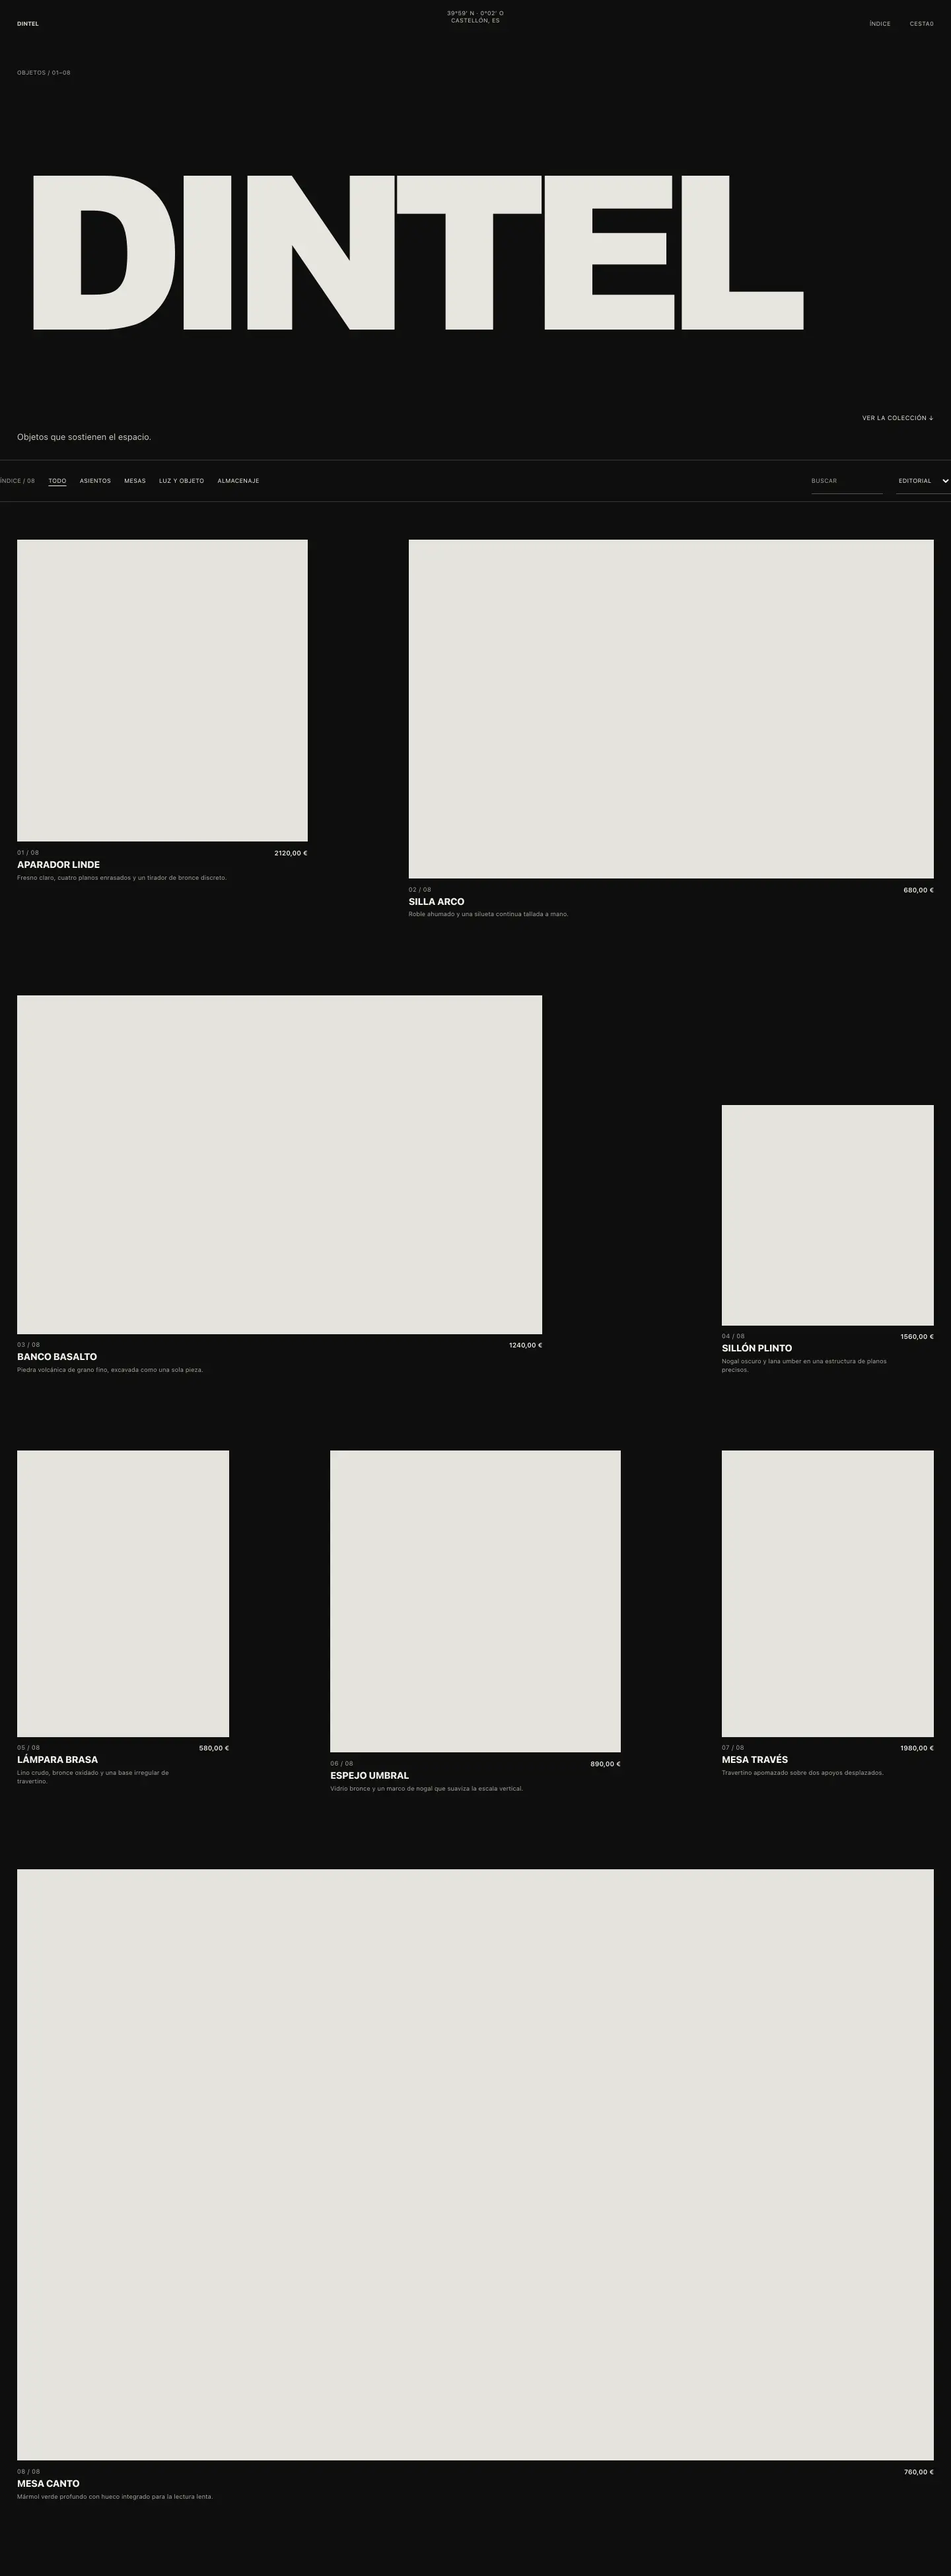
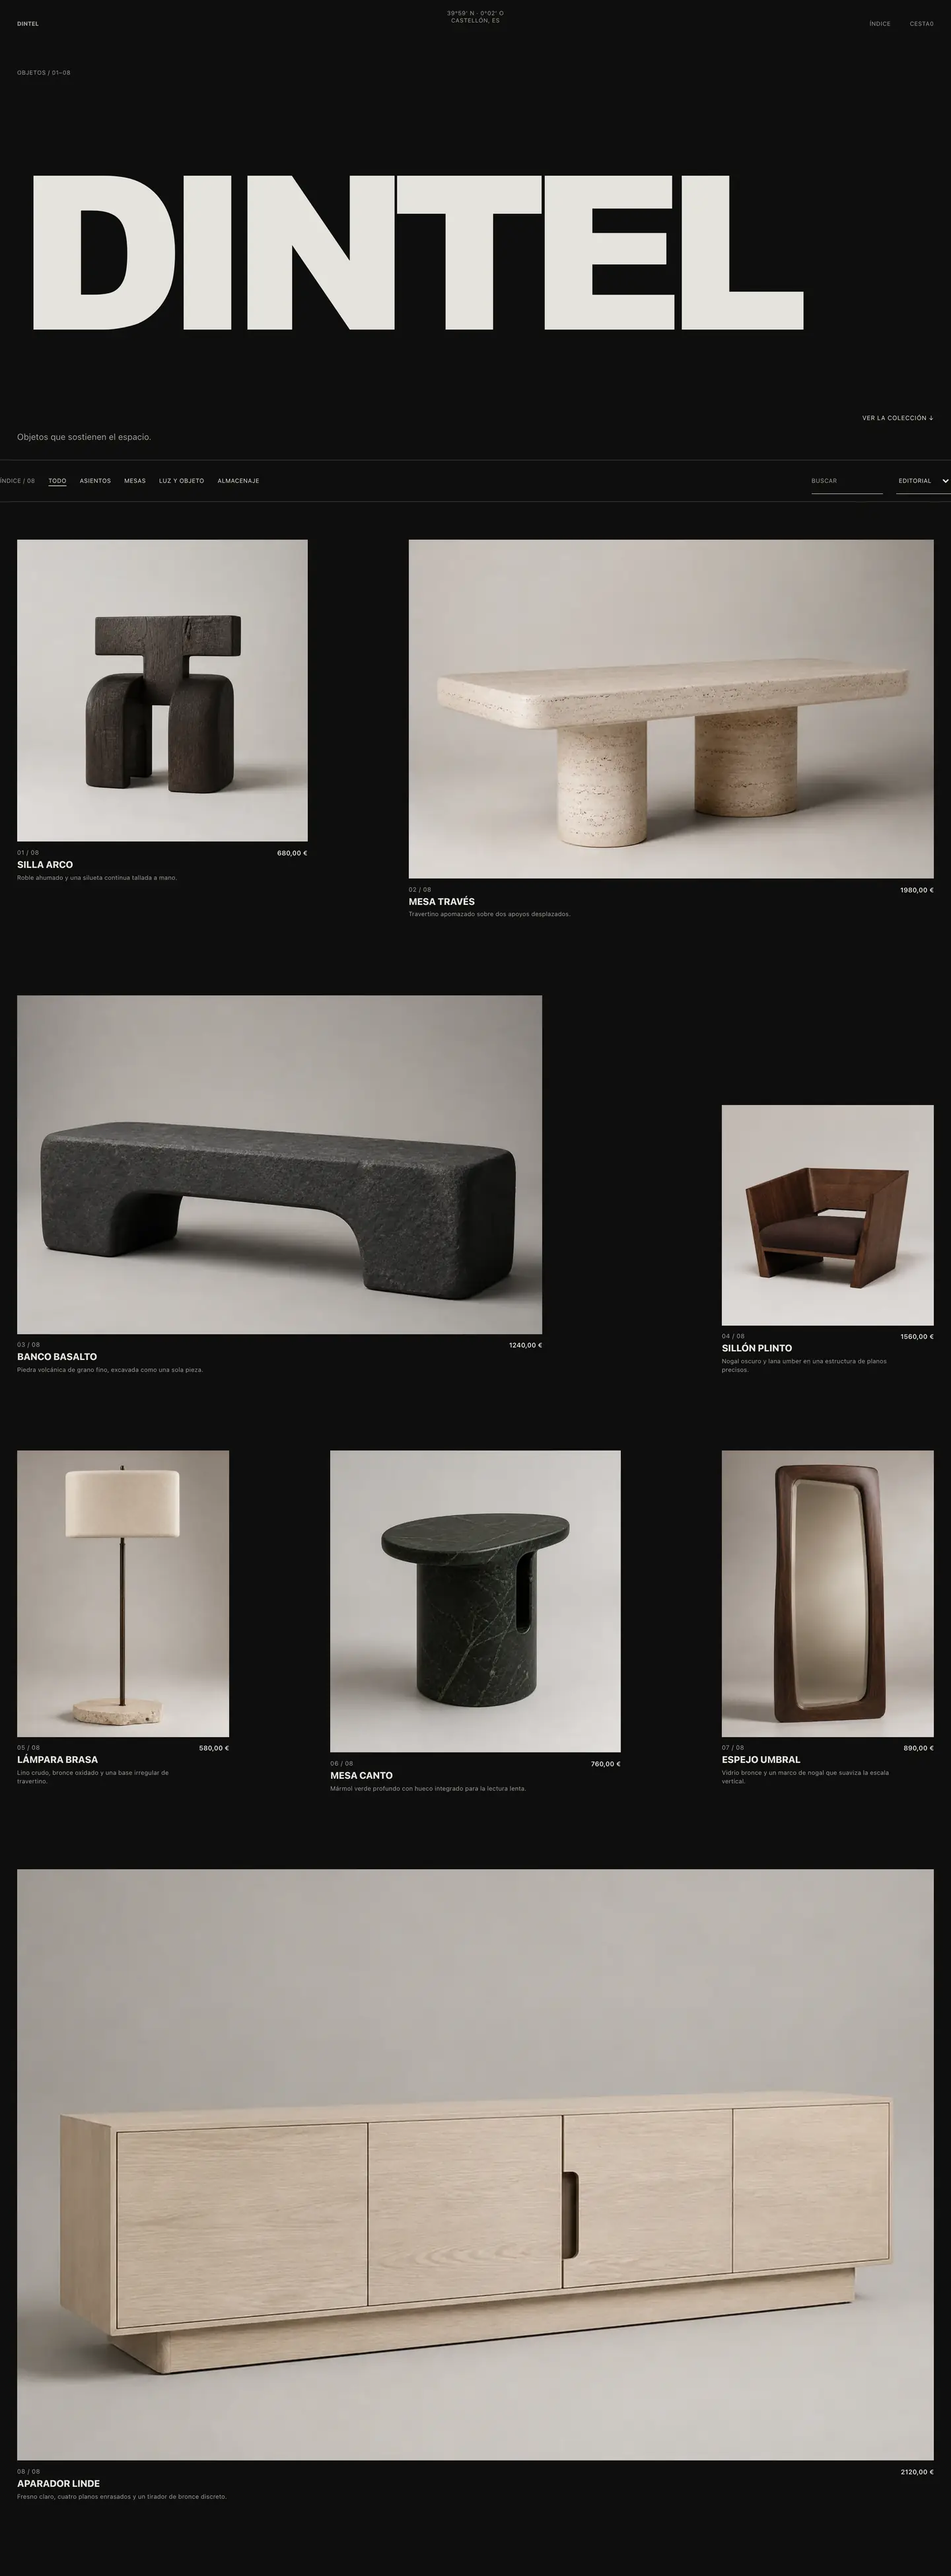
Finish DINTEL furniture theme

diff --git a/src/lib/demo-themes.ts b/src/lib/demo-themes.ts
@@ -985,9 +985,9 @@ export const demoThemes: DemoTheme[] = [
     bestFor: ['Interiorismo', 'Mobiliario de autor', 'Objeto escultórico'],
     status: 'ready',
     vars: {
-      '--color-brand': '#e8e6df',
-      '--color-brand-dark': '#c9c7bf',
-      '--color-brand-fg': '#ffffff',
+      '--color-brand': '#171715',
+      '--color-brand-dark': '#0e0e0d',
+      '--color-brand-fg': '#f2f1ea',
       '--font-display': "Arial Black, Impact, Haettenschweiler, 'Arial Narrow Bold', sans-serif",
       '--font-accent': SYSTEM_SANS,
       '--tracking-display': '-0.085em',
@@ -996,7 +996,7 @@ export const demoThemes: DemoTheme[] = [
       '--radius-card': '0',
       '--border-width': '1px',
       '--surface-product': '#e5e3dd',
-      '--surface-sunken': '#171715',
+      '--surface-sunken': '#0e0e0d',
       '--space-density': '0.85',
       '--grid-gap': 'clamp(1rem, 2.4vw, 2.5rem)',
     },

diff --git a/docs/ROADMAP.md b/docs/ROADMAP.md
@@ -896,6 +896,30 @@ posición 12
 (`4b7efb74f44f8df500b21c605b7ceff9.jpg`). El carril principal conserva R2.11
 como cabeza y requiere permiso explícito por su migración D1.
 
+### Línea paralela · tema DINTEL (2026-08-12, sesión local)
+
+Duodécimo elemento de `nuevos-temas/cola.json`. DINTEL replica una referencia
+de mobiliario monolítico con fondo negro, wordmark monumental, microtipografía
+y retícula asimétrica de doce columnas. Ocho objetos `din-*` de madera,
+piedra, bronce y luz usan assets WebP propios generados con `imagegen`
+integrado, una llamada por objeto.
+
+El WIP previo estaba completo visualmente pero no cerraba: el acento claro
+fallaba el test de contraste (1,25:1) y hacía casi invisibles la categoría y la
+CTA de la ficha compartida; además, las capturas de escritorio se tomaron antes
+de que los WebP lazy quedaran pintados. El acento operativo pasa a tinta oscura,
+el catálogo deriva sus tintas claras de los 14 tokens, el orden destacado se
+alinea con la referencia y el script espera carga y `decode()` antes de cada
+captura.
+
+El bloque no cambia pricing, envíos, checkout, pedidos, D1 ni APIs, y no añade
+dependencias. Auditoría a11y: 8 superficies, 0 errores y 0 avisos. Cinco
+capturas dentro de presupuesto y `pnpm check` en verde (62 suites/394 tests,
+tipos y build). La posición 12 queda completada y la siguiente referencia
+visual ejecutable es la posición 13
+(`5675ae523a7da5dc339cbf50c05e49f1.jpg`). El carril principal conserva R2.13
+como cabeza.
+
 ### Pendiente en la Fase 9B
 
 - **Pasada de fidelidad fina** de los 4 temas contra su captura (se re-hospedaron

diff --git a/docs/temas/dintel.md b/docs/temas/dintel.md
@@ -43,5 +43,11 @@ adicionales.
 
 ## Verificación
 
-- ✅ `pnpm check`: tipos, tests y build en verde antes de las capturas.
-- ⏳ Navegador, auditoría a11y y capturas: en curso en el cierre del tema.
+- ✅ El contraste del acento compartido queda corregido para ficha, carrito y
+  checkout; la portada oscura deriva sus tintas de los 14 tokens del tema.
+- ✅ Navegador real a 1440 y 375 px, recorrido local, foco, teclado y
+  `prefers-reduced-motion` revisados.
+- ✅ Auditoría a11y: 8 superficies, 0 errores y 0 avisos.
+- ✅ Cinco capturas finales regeneradas; catálogo 90 KB, móvil 15 KB y ficha
+  23 KB, con todos los WebP decodificados antes de capturar.
+- ✅ `pnpm check`: 62 suites, 394 tests, tipos y build en verde.

diff --git a/docs/TEMAS.md b/docs/TEMAS.md
@@ -765,7 +765,7 @@ Ficha completa: [`docs/temas/dintel.md`](temas/dintel.md).
 | 22 | BRÍO | `#c9e66d` | 3 | **irregular** | top | **split** | hairline | dropdown | regular | ✅ |
 | 23 | BRUMA | `#272725` | 4 | uniform | top | none | plain | dropdown | airy | ✅ |
 | 24 | TRAZA | `#242321` | 3 | **irregular** | **immersive** | **fullbleed** | plain | dropdown | airy | ✅ |
-| 25 | DINTEL | `#e8e6df` | 3 | **irregular** | **immersive** | **fullbleed** | plain | dropdown | airy | ✅ |
+| 25 | DINTEL | `#171715` | 3 | **irregular** | **immersive** | **fullbleed** | plain | dropdown | airy | ✅ |
 
 ---
 
